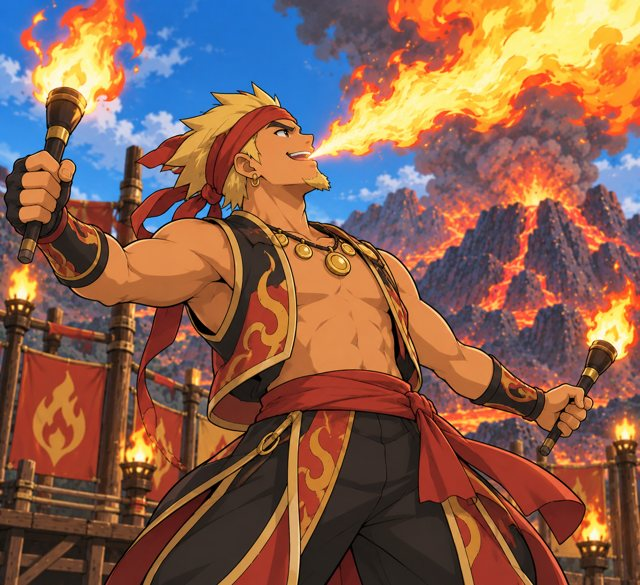
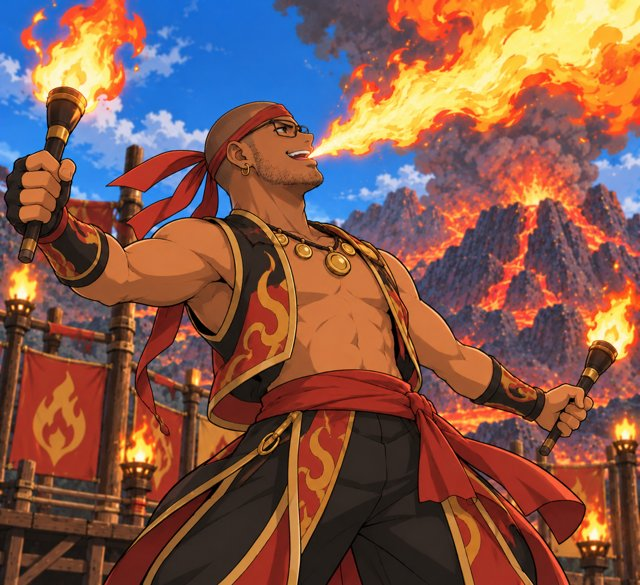
Tyler's trainer names and photos, one ability shown, Summit bag, Victory Hall top 5, Lvl 100 star
Claude-Session: https://claude.ai/code/session_01QcwD4A7w5J2PQKrKPnVQxv

diff --git a/game/app_script.html b/game/app_script.html
@@ -181,7 +181,7 @@ function myTeamText() { const m = myTeam(); return m ? (m.text || E.setsToText(m
 function baseName() { const m = myTeam(); return m ? m.name : 'Player'; }
 function needTeam() { openHall(); toast('Pick a team for the Battle Hall first.'); }
 
-const SCREENS = ['title', 'slots', 'options', 'setup', 'teams', 'builder', 'moned', 'lead', 'battle', 'info', 'jstart', 'journey', 'jbag', 'shop', 'quest', 'trail', 'summit', 'trophy', 'farm', 'dev', 'intro', 'dex'];
+const SCREENS = ['title', 'slots', 'options', 'setup', 'teams', 'builder', 'moned', 'lead', 'battle', 'info', 'jstart', 'journey', 'jbag', 'shop', 'quest', 'trail', 'summit', 'trophy', 'vhall', 'farm', 'dev', 'intro', 'dex'];
 let curScreen = null;
 function show(id) { if (id !== 'battle' && typeof wxStop === 'function') wxStop(); curScreen = id; $('toast').hidden = true; for (const s of SCREENS) $(s).hidden = s !== id; window.scrollTo(0, 0); }
 function setAccent(color) { document.documentElement.style.setProperty('--accent', color); }
@@ -1333,10 +1333,9 @@ function statBlock(set, sp, title) {
   return `<div><div class="lbl">${esc(title)}</div><div class="statgrid">${rows}</div><div class="statnote">Base stats: ${base} (total ${STAT_ORDER.reduce((a, s) => a + sp.baseStats[s], 0)})</div></div>`;
 }
 
-// every ability the Mon can have, the hidden one last; the one it has now is bright
+// the ability the Mon has now
 function abilityLine(sp, current) {
-  const names = [sp.abilities[0], sp.abilities[1], sp.abilities.H].filter(Boolean);
-  return names.map(n => n === current ? `<span style="color:var(--fg)">${esc(n)}</span>` : esc(n)).join(', ');
+  return esc(current || sp.abilities[0]);   // a Mon shows only the ability it has
 }
 function dexCard(set, idx) {
   const sp = E.Dex.species.get(set.species);
@@ -2204,9 +2203,10 @@ const SHAM_ART = {'Shamburg Grunt Foster': 's-foster', 'Shamburg Grunt Miranda':
   'Shamburg Lieutenant Addi': 's-addi', 'Shamburg Grunt Savannah': 's-savannah', 'Shamburg Grunt Merrit': 's-merrit', 'Shamburg Lieutenant Kathi': 's-kathi', 'Boss Greg': 's-greg'};
 const SHAM_GROUP = ['s-group1', 's-group2', null];
 // The side quest trainers' first names (from the portrait file names in the Quest Trainers folder)
-const TRAINER_NAMES = {'Bug Catcher': 'Kip', 'Spelunker': 'Cara', 'Hiker': 'Ron', 'Fisher': 'Mia', 'Desert Nomad': 'Aziz', 'Fire Breather': 'Troy', 'Swamp Guide': 'Hank', 'Skier': 'Jess',
+const TRAINER_NAMES = {'Bug Catcher': 'Kendall', 'Spelunker': 'Elsie', 'Hiker': 'Will', 'Fisher': 'Katie', 'Desert Nomad': 'Drew', 'Fire Breather': 'Adam', 'Swamp Guide': 'Hank', 'Skier': 'Jess',
   'Ruin Maniac': 'Nick', 'Swimmer': 'Beth', 'Storm Chaser': 'Tabby', 'Night Watcher': 'Edward', 'Bird Keeper': 'Robin', 'Mechanic': 'Bo', 'Picnicker': 'Yvette', 'Dragon Tamer': 'Rayne'};
-const qName = q => q.legend || !TRAINER_NAMES[q.trainer] ? q.trainer : `${q.trainer} ${TRAINER_NAMES[q.trainer]}`;
+const TRAINER_TITLE = {'Desert Nomad': 'Biker'};   // shown name only; saves keep the old key
+const qName = q => q.legend || !TRAINER_NAMES[q.trainer] ? q.trainer : `${TRAINER_TITLE[q.trainer] || q.trainer} ${TRAINER_NAMES[q.trainer]}`;
 const TRAINER_ART = {'Bug Catcher': 't-bugcatcher', 'Spelunker': 't-spelunker', 'Hiker': 't-hiker', 'Fisher': 't-fisher', 'Desert Nomad': 't-desertnomad', 'Fire Breather': 't-firebreather',
   'Swamp Guide': 't-swampguide', 'Skier': 't-skier', 'Ruin Maniac': 't-ruinmaniac', 'Swimmer': 't-swimmer', 'Storm Chaser': 't-stormchaser', 'Night Watcher': 't-nightwatcher',
   'Bird Keeper': 't-birdkeeper', 'Mechanic': 't-mechanic', 'Picnicker': 't-picnicker', 'Dragon Tamer': 't-dragontamer', 'Ace Trainer Mira': 't-acetrainer',
@@ -2366,6 +2366,7 @@ function advFight(fight) {
   if (A.team.every(m => m.frac <= 0)) advHealAll();
   // rolled once, just before the battle starts, so the picture never changes mid-battle; a legendary re-rolls every time you enter its battle
   if (fight.catchable) { const w = fight.sets[0], id = toId(w.species); w.lustrous = E.rollLustrous(id, fight.type === 'questLegend' || fight.type === 'labWild' || A.dex.seen[id], lusRate()); }
+  if (fight.type === 'e4' || fight.type === 'champion') fight.t0 = performance.now();   // the Victory Hall clock only runs while a Summit battle is on
   ctx = {kind: 'adventure', fight};
   foe = fight.foe;
   const sets = advSets();
@@ -2786,11 +2787,12 @@ function advResult(icon, color, title, text, lines, buttons) {
 
 async function advBattleOver(won) {
   const fight = ctx.fight;
+  if (fight.t0) { A.runMs = (A.runMs || 0) + Math.round(performance.now() - fight.t0); fight.t0 = 0; }
   readAdvHP();
   saveA();
   if (!won) {
     advHealAll(); A.loc = null; A.townAt = null;
-    if (fight.type === 'e4' || fight.type === 'champion') A.e4pos = 0;
+    if (fight.type === 'e4' || fight.type === 'champion') { A.e4pos = 0; A.runMs = 0; }
     if (fight.quest != null) A.quests[fight.quest].step = 0;
     if (fight.sham != null) A.shamburg.step[fight.sham] = 0;
     saveA();
@@ -2941,7 +2943,7 @@ async function advBattleOver(won) {
     advResult(E4_FIGHTS[fight.stage.key].icon, E4_FIGHTS[fight.stage.key].color, `${E4_FIGHTS[fight.stage.key].title} defeated`, `You won ${money(E4_PRIZE)}. ${esc(got)}.`, lines, `<button class="btn primary" id="aToSummit">${A.e4pos >= 4 ? 'On to the Champion' : 'Continue up the Summit'}</button>`);
   } else {
     A.money += CHAMP_PRIZE; A.done = true; A.hof = (A.hof || 0) + 1;
-    recordWin();
+    recordWin(); A.runMs = 0;
     champions[A.difficulty] = true; store.set('champions', champions);
     saveA();
     advResult('crown', CHAMP.color, 'Hall of Fame', `You beat the level ${fight.level} Champion and won ${money(CHAMP_PRIZE)}. Your team: ${A.team.map(m => esc(mset(m).species) + ' Lv ' + m.level).join(', ')}.`, null, `<button class="btn primary" id="aToMap">See the map</button>`);
@@ -3176,7 +3178,7 @@ function gloomOff() {
 // Victor's Trophy Case: every win at the Summit keeps the team that did it.
 function recordWin() {
   if (!A.trophies) A.trophies = [];
-  A.trophies.push({t: Date.now(), diff: A.difficulty, summit: A.summit, rematch: A.rematch || 0, team: A.team.map(m => ({s: mset(m).species, l: m.level, lus: !!m.lustrous}))});
+  A.trophies.push({t: Date.now(), diff: A.difficulty, summit: A.summit, rematch: A.rematch || 0, ms: A.runMs || 0, team: A.team.map(m => ({s: mset(m).species, l: m.level, lus: !!m.lustrous}))});
 }
 function openTrophies() {
   const list = (A.trophies || []).slice().reverse(), total = A.trophies ? A.trophies.length : 0;
@@ -3191,6 +3193,19 @@ function openTrophies() {
   show('trophy');
 }
 $('trophyBack').addEventListener('click', () => openSummit({keepAsk: true}));
+// Victory Hall: the five fastest wins. Only time spent inside Summit battles counts.
+const fmtClock = ms => { const t = Math.round(ms / 1000), m = Math.floor(t / 60), sec = t % 60; return `${m}:${String(sec).padStart(2, '0')}`; };
+function openVHall() {
+  const runs = (A.trophies || []).filter(w => w.ms > 0).sort((a, b) => a.ms - b.ms).slice(0, 5);
+  $('vhallSub').textContent = `${A.playerName || ''} · top ${Math.max(runs.length, 0)} of 5`;
+  $('vhallBody').innerHTML = '<p class="note">The five fastest times that beat the whole Summit. Only the time spent in battle counts: not the walks, the talking or the bag.</p>'
+    + (runs.length ? runs.map((w, i) => `<div class="vhrow"><span class="rk">${i + 1}</span><div><b>${esc(new Date(w.t).toLocaleDateString(undefined, {month: 'short', day: 'numeric', year: 'numeric'}))}${w.rematch ? ' · rematch' : ''}</b><small>${w.diff ? esc(w.diff) : ''}</small><div class="mini">${w.team.map(m => artOf(m.s, m.lus)).join('')}</div></div><span class="tm">${fmtClock(w.ms)}</span></div>`).join('')
+      : '<p class="note">No timed wins yet. Beat the Summit again and your battle time will be kept here.</p>');
+  show('vhall');
+}
+$('vhallBack').addEventListener('click', () => openSummit({keepAsk: true}));
+$('summitHall').addEventListener('click', openVHall);
+$('summitBag').addEventListener('click', () => openAdvBag('summit'));
 $('summitTrophy').addEventListener('click', openTrophies);
 async function devSummitWin() {
   A.e4pos = 4; A.money += CHAMP_PRIZE; A.done = true; A.hof = (A.hof || 0) + 1;
@@ -3580,6 +3595,7 @@ function openSummit(opts = {}) {
   const steps = summitSteps();
   if (!opts.keepAsk) summitAsk = false;
   $('summitTrophy').hidden = !((A.trophies && A.trophies.length) || A.hof);
+  $('summitHall').hidden = !(A.done || A.hof);
   $('summitLeave').textContent = summitLocked() ? 'Forfeit' : 'Leave';
   const cleared = A.done ? 5 : A.e4pos < 4 ? A.e4pos : 4;
   // fights you can't reach yet stay a mystery until it's your turn
@@ -3644,10 +3660,10 @@ $('summitBar').addEventListener('click', e => {
   else if (e.target.id === 'sDevSkip') { A.e4pos = 4; saveA(); openSummit({animate: true}); }
   else if (e.target.id === 'sDevWin') devSummitWin();
   else if (e.target.id === 'sDevNote') showTylerNote();
-  else if (e.target.id === 'sRematch') { A.rematch = (A.rematch || 0) + 1; A.done = false; A.e4pos = 0; A.champTeam = null; saveA(); openSummit(); }
+  else if (e.target.id === 'sRematch') { A.rematch = (A.rematch || 0) + 1; A.done = false; A.e4pos = 0; A.runMs = 0; A.champTeam = null; saveA(); openSummit(); }
   else if (e.target.id === 'sForfeitNo') { summitAsk = false; openSummit(); }
   else if (e.target.id === 'sForfeitYes') {
-    summitAsk = false; A.e4pos = 0; A.champTeam = null; saveA();
+    summitAsk = false; A.e4pos = 0; A.runMs = 0; A.champTeam = null; saveA();
     openAdvMap({force: true, msg: 'You forfeited the Elite Four. Your progress at Victory Summit was lost.'});
   }
 });
@@ -4065,6 +4081,12 @@ function syncDexFromTeam() {
       sp = sp.prevo ? E.Dex.species.get(sp.prevo) : null;
     }
   }
+  // a Mon at level 100 marks its whole evolution line with the blue star
+  for (const m of [...A.team, ...(A.box || [])]) {
+    if (m.level < 100) continue;
+    const sn = mset(m).species, fam = E.FAMILIES.find(f => f.stages.some(x => x.name === sn));
+    if (fam) for (const x of fam.stages) (A.dex.lv100 = A.dex.lv100 || {})[toId(x.name)] = 1;
+  }
   for (const id of Object.keys(A.dex.lusCaught || {})) A.dex.caught[id] = 1;   // saves from before: a Lustrous catch alone now counts as caught
 }
 
@@ -4332,6 +4354,7 @@ function nationalList() {
   return natList;
 }
 function openDex(mode, from) {
+  if (A && A.regional && E) syncDexFromTeam();
   dexMode = mode; dexFrom = from; dexTab = 'regional';
   $('dexSearch').value = '';
   setAccent('#e25b4f');
@@ -4355,7 +4378,7 @@ function renderDexList() {
     rows = E.SPECIES.filter(s => s.id !== 'missingno' && match(s.name, s.num, s.types)).map(s => {
       const known = !adv || A.dex.seen[s.id];
       const c = E.regionalInfo(s.name).color;
-      return `<button class="dexrow ${known ? '' : 'unseen'}" style="--c:${c}" data-dex="${esc(s.name)}" ${known ? '' : 'disabled'}><span class="thumb">${E.monArt(s.id)}</span><span><small>#${pad3(s.num)}${adv && A.dex.caught[s.id] ? ' <span class="caughtdot">●</span>' : ''}${adv && A.dex.lusCaught && A.dex.lusCaught[s.id] ? ' <span class="lusdot">◆</span>' : ''}</small><b>${known ? esc(s.name) : '???'}</b>${known ? typesHTML(s.types) : '<small>Not seen yet</small>'}</span></button>`;
+      return `<button class="dexrow ${known ? '' : 'unseen'}" style="--c:${c}" data-dex="${esc(s.name)}" ${known ? '' : 'disabled'}><span class="thumb">${E.monArt(s.id)}</span><span><small>#${pad3(s.num)}${adv && A.dex.caught[s.id] ? ' <span class="caughtdot">●</span>' : ''}${adv && A.dex.lusCaught && A.dex.lusCaught[s.id] ? ' <span class="lusdot">◆</span>' : ''}${adv && A.dex.lv100 && A.dex.lv100[s.id] ? ' <span class="stardot">★</span>' : ''}</small><b>${known ? esc(s.name) : '???'}</b>${known ? typesHTML(s.types) : '<small>Not seen yet</small>'}</span></button>`;
     });
   } else {
     let list = nationalList();
@@ -4400,11 +4423,12 @@ function showDexEntry(name, lus) {
   const stats = ['hp', 'atk', 'def', 'spa', 'spd', 'spe'], lbl = {hp: 'HP', atk: 'Atk', def: 'Def', spa: 'SpA', spd: 'SpD', spe: 'Spe'};
   const total = stats.reduce((a, k) => a + sp.baseStats[k], 0);
   const statHTML = stats.map(k => `<span class="s">${lbl[k]}</span><span class="v">${sp.baseStats[k]}</span><span class="bar"><i style="width:${Math.min(100, sp.baseStats[k] / 1.6)}%;background:${sp.baseStats[k] >= 100 ? 'var(--hp-good)' : sp.baseStats[k] >= 60 ? 'var(--hp-mid)' : 'var(--hp-low)'}"></i></span>`).join('');
-  const abil = Object.entries(sp.abilities).map(([k, a]) => `${esc(a)}${k === 'H' ? ' <span>(hidden)</span>' : ''}`).join(', ');
+  let abil = esc(sp.abilities[0]);
+  if (adv) { const fam = E.FAMILIES.find(f => f.stages.some(x => x.name === name)); if (fam && fam.stages[fam.stages.length - 1].name === name && fam.final && fam.final.ability) abil = esc(fam.final.ability); }
   let moves = [];
   try { moves = E.levelMoves(sp, sp.evoLevel || 1); } catch (e) { moves = []; }
   const moveHTML = moves.length ? `<div class="dexmoves">${moves.map(m => { const mv = E.Dex.moves.get(m.id); return `<span>${m.level}</span><span>${esc(mv.name)}</span>${typesHTML([mv.type])}`; }).join('')}</div>` : '<p class="note">No level-up moves.</p>';
-  const status = adv && reg ? [A.dex.caught[reg.id] ? '<span class="caughtdot">●</span> Caught' : '', A.dex.lusCaught && A.dex.lusCaught[reg.id] ? '<span class="lusdot">◆</span> Lustrous caught' : ''].filter(Boolean).join(' · ') || 'Seen' : '';
+  const status = adv && reg ? [A.dex.caught[reg.id] ? '<span class="caughtdot">●</span> Caught' : '', A.dex.lusCaught && A.dex.lusCaught[reg.id] ? '<span class="lusdot">◆</span> Lustrous caught' : '', A.dex.lv100 && A.dex.lv100[reg.id] ? '<span class="stardot">★</span> Lvl 100 reached' : ''].filter(Boolean).join(' · ') || 'Seen' : '';
   const where = reg ? (reg.starter ? 'Given by Professor Okla at the start of an adventure.' : reg.id === 'cryodon' ? 'A fossil Mon. It never appears in the wild: Prof. Okla\'s aide revives it and sends it to your Farm on Route 7.' : reg.id === 'missingno' ? 'A secret Mon. Beat Prof. Okla at his lab after the Champion, then follow the glitching shore.' : reg.rare ? 'A legendary Mon. It guards a hidden site on the Laurel Pass and never shows up in the wild.' : `${reg.routes.map(esc).join(', ')}, plus the side quests next to those routes.`) : '';
   const dexNames = [...$('dexList').querySelectorAll('[data-dex]:not([disabled])')].map(b => b.dataset.dex);
   const di = dexNames.indexOf(sp.name), prevN = di > 0 ? dexNames[di - 1] : '', nextN = di >= 0 && di < dexNames.length - 1 ? dexNames[di + 1] : '';

diff --git a/game/index_markup.html b/game/index_markup.html
@@ -405,6 +405,13 @@ img.monart { object-fit: contain; user-select: none; -webkit-user-drag: none; }
 .routemon small { color: var(--muted); font-size: 11px; }
 .caughtdot { color: #e25b4f; font-weight: 800; }
 .lusdot { color: #ffd60a; font-weight: 800; }
+.stardot { color: #4a8cff; font-weight: 800; }
+.vhrow { display: grid; grid-template-columns: 34px 1fr auto; gap: 10px; align-items: center; background: var(--panel); border-radius: var(--r); padding: 10px 12px; margin-bottom: 8px; border-left: 4px solid #e8b53a; }
+.vhrow .rk { font-size: 22px; font-weight: 800; color: #e8b53a; text-align: center; }
+.vhrow .tm { font-size: 20px; font-weight: 800; font-variant-numeric: tabular-nums; }
+.vhrow small { color: var(--muted); display: block; font-size: 12px; }
+.vhrow .mini { display: flex; gap: 2px; margin-top: 4px; }
+.vhrow .mini img, .vhrow .mini svg { width: 26px; height: 26px; object-fit: contain; }
 /* ---------- catching ---------- */
 .catchbox { display: flex; flex-direction: column; gap: 10px; align-items: stretch; text-align: center; padding: 6px 0; }
 .catchbox p { margin: 0; font-size: 15px; }
@@ -1078,7 +1085,7 @@ img.monart { object-fit: contain; user-select: none; -webkit-user-drag: none; }
   <section class="screen" id="summit" hidden>
     <div class="maphead">
       <div class="mapttl"><small id="summitSub"></small><span>Victory Summit</span></div>
-      <div class="row"><button class="ghost" id="summitTrophy" hidden>Trophies</button><button class="ghost" id="summitTeam">Team</button><button class="ghost" id="summitLeave">Leave</button></div>
+      <div class="row"><button class="ghost" id="summitHall" hidden>Victory Hall</button><button class="ghost" id="summitTrophy" hidden>Trophies</button><button class="ghost" id="summitBag">Bag</button><button class="ghost" id="summitTeam">Team</button><button class="ghost" id="summitLeave">Leave</button></div>
     </div>
     <div class="mapwrap"><svg id="summitSvg" viewBox="0 0 360 420" role="img" aria-label="Victory Summit map"></svg></div>
     <div class="nextbar" id="summitBar"></div>
@@ -1091,6 +1098,15 @@ img.monart { object-fit: contain; user-select: none; -webkit-user-drag: none; }
       <div class="row"><button class="ghost" id="trophyBack">Back</button></div>
     </div>
     <div class="scroll"><div class="trailbody" id="trophyBody"></div></div>
+  </section>
+
+  <!-- VICTORY HALL: the five fastest wins -->
+  <section class="screen" id="vhall" hidden>
+    <div class="maphead">
+      <div class="mapttl"><small id="vhallSub"></small><span>Victory Hall</span></div>
+      <div class="row"><button class="ghost" id="vhallBack">Back</button></div>
+    </div>
+    <div class="scroll"><div class="trailbody" id="vhallBody"></div></div>
   </section>
 
   <!-- ADVENTURE: DEVELOPER TOOLS -->
